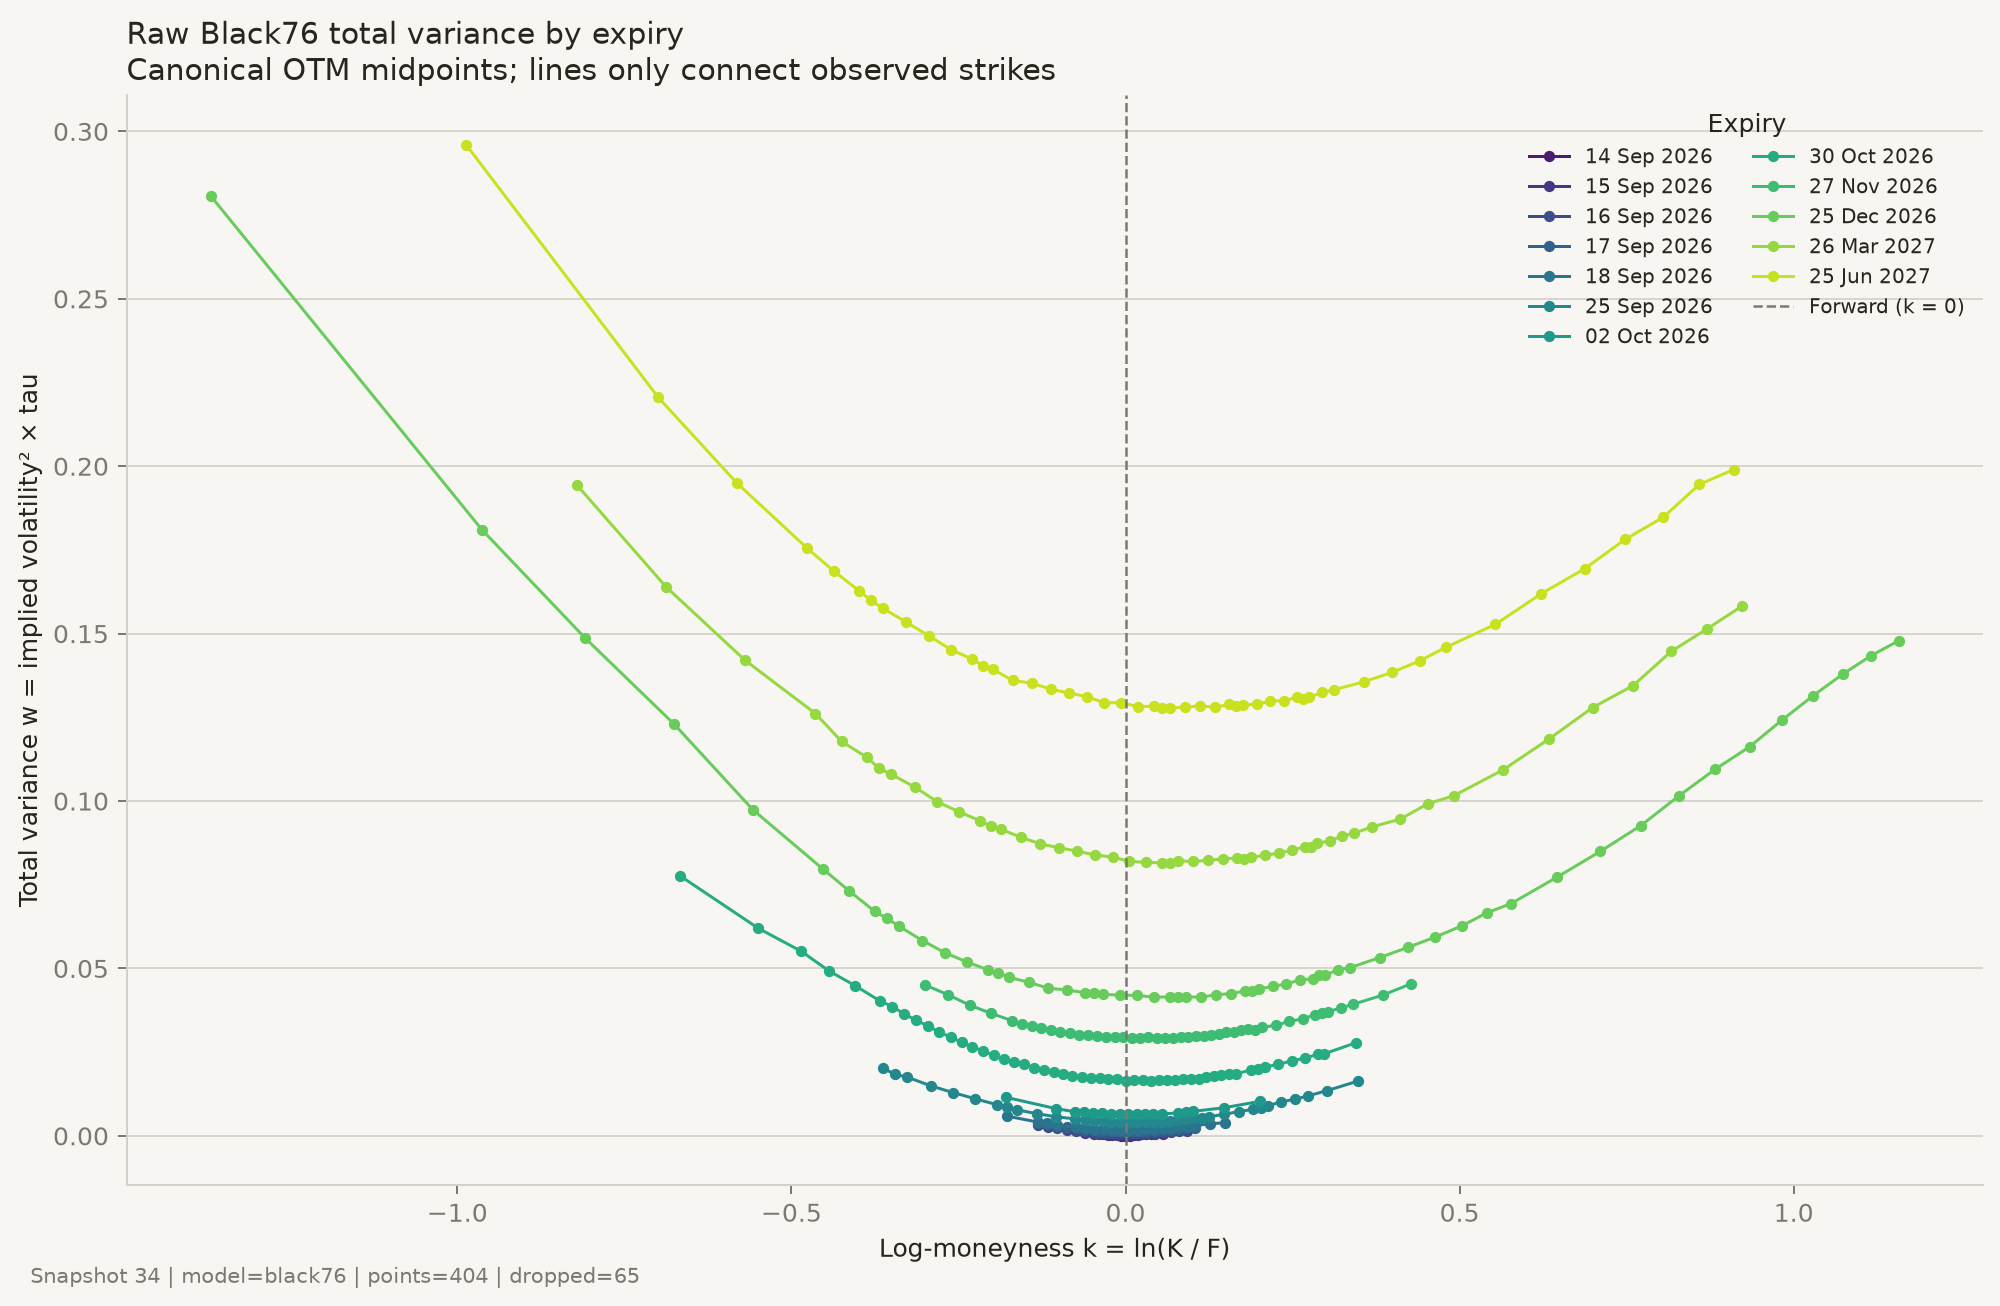
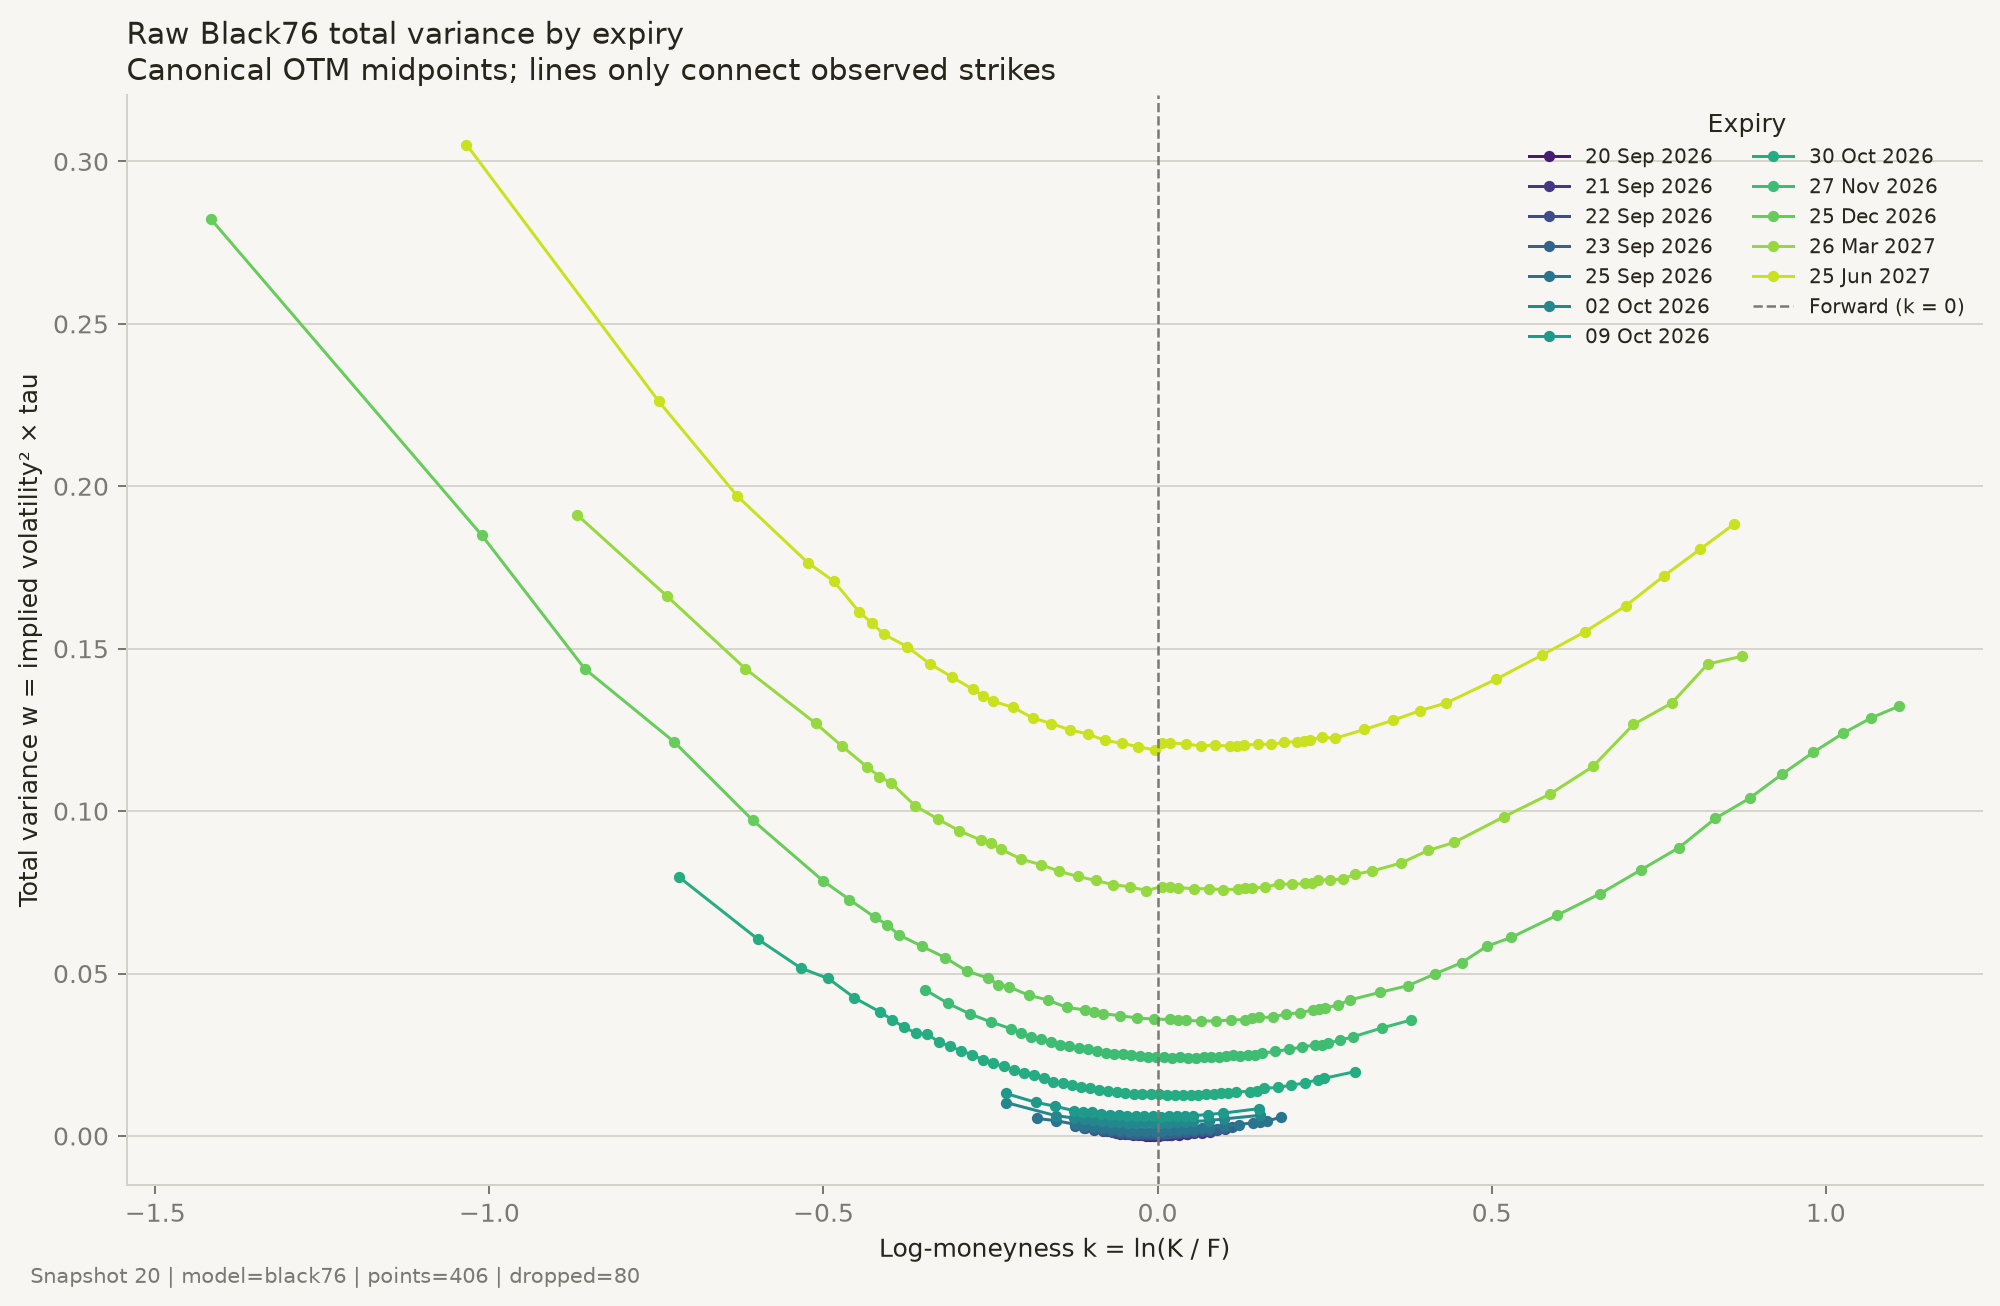
svi plots

diff --git a/benchmarks/test.py b/benchmarks/test.py
@@ -1,0 +1,24 @@
+
+from datetime import datetime, timezone
+from deribit.store import SnapshotStore
+from deribit.forward_curve import build_forward_curve
+
+snapshot_id = 20  # Using your newly fetched snapshot ID
+store = SnapshotStore("snapshots.db")
+snapshot = store.load_snapshot(snapshot_id)
+
+if snapshot is None:
+    raise SystemExit(f"Snapshot {snapshot_id} not found")
+
+curve = build_forward_curve(snapshot)
+
+print(f"--- Available Expiries for Snapshot {snapshot_id} ---")
+for expiry in curve.expiry_forwards:
+    date = datetime.fromtimestamp(expiry.expiration_timestamp / 1000, tz=timezone.utc)
+    print(
+        f"Expiry: {expiry.expiration_timestamp} | "
+        f"Date: {date.strftime('%Y-%m-%d %H:%M UTC')} | "
+        f"Pairs: {expiry.pair_count} | "
+        f"Forward: {expiry.implied_forward:,.2f}"
+    )
+PY
